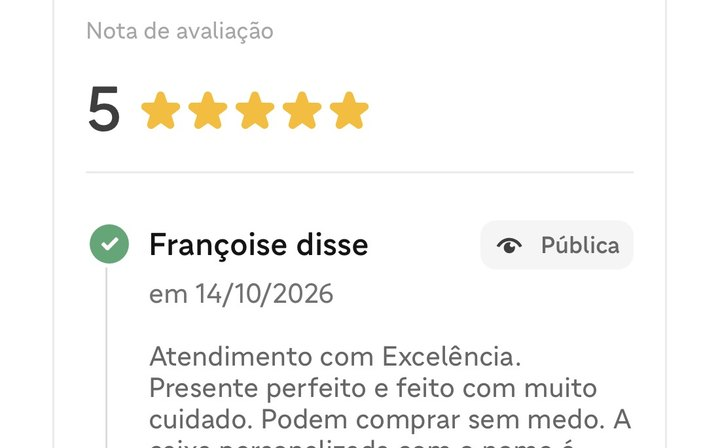
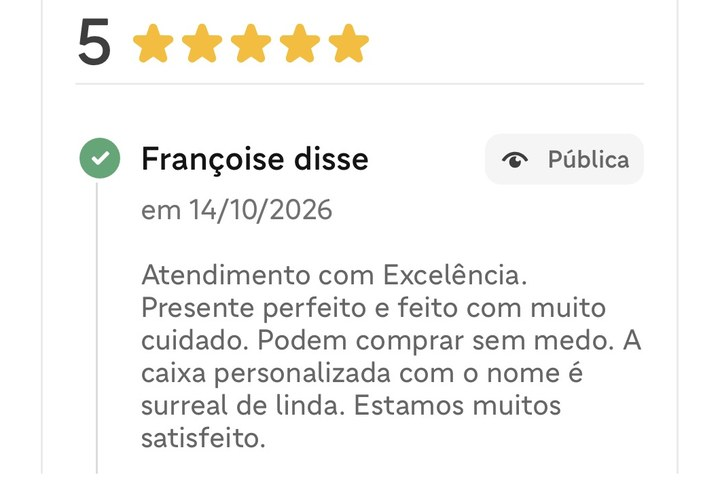
fix: prevent bottom cropping of iFood review text and add Beatriz review print

diff --git a/index.html b/index.html
@@ -1218,7 +1218,7 @@
               <img
                 src="assets/avaliacao-ifood-francoise.jpg"
                 width="720"
-                height="448"
+                height="490"
                 loading="lazy"
                 decoding="async"
                 alt="Avaliação 5 estrelas de Françoise no iFood: Atendimento com Excelência. Presente perfeito e feito com muito cuidado. Podem comprar sem medo. A caixa personalizada com o nome é surreal de linda. Estamos muito satisfeitos."
@@ -1254,7 +1254,7 @@
               <img
                 src="assets/avaliacao-ifood-celia.jpg"
                 width="720"
-                height="494"
+                height="561"
                 loading="lazy"
                 decoding="async"
                 alt="Avaliação 5 estrelas de Celia no iFood: É a segunda vez que faço pedido e não poderia deixar de registrar minha satisfação! Desde o primeiro contato, fui muito bem atendida, além da agilidade e capricho que fizeram toda diferença na minha experiência. Com certeza ganhou uma cliente fiel! Super recomendo."
@@ -1308,7 +1308,7 @@
               <img
                 src="assets/avaliacao-ifood-higor.jpg"
                 width="720"
-                height="317"
+                height="359"
                 loading="lazy"
                 decoding="async"
                 alt="Avaliação 5 estrelas de Higor no iFood: Perfeito! Muito bem preparado, minha noiva amou o presente."
@@ -1326,7 +1326,7 @@
               <img
                 src="assets/avaliacao-ifood-amanda.jpg"
                 width="720"
-                height="400"
+                height="441"
                 loading="lazy"
                 decoding="async"
                 alt="Avaliação 5 estrelas de Amanda no iFood: Atendimento excelente e muita qualidade na preparação da cesta!"
@@ -1344,10 +1344,28 @@
               <img
                 src="assets/avaliacao-ifood-geislane.jpg"
                 width="720"
-                height="386"
+                height="427"
                 loading="lazy"
                 decoding="async"
                 alt="Avaliação 5 estrelas de Geislane no iFood: Atendimento perfeito e muita paciência! Muito simpática e parece amar o que faz, com certeza comprarei mais vezes."
+              />
+              <!-- </a> -->
+            </figure>
+            <figure class="review-card">
+              <span class="review-badge">Avaliação no iFood · 5 ★</span>
+              <!-- <a
+                href="assets/avaliacao-ifood-beatriz.jpg"
+                target="_blank"
+                rel="noopener"
+                aria-label="Ver print da avaliação de Beatriz no iFood"
+              > -->
+              <img
+                src="assets/avaliacao-ifood-beatriz.jpg"
+                width="720"
+                height="368"
+                loading="lazy"
+                decoding="async"
+                alt="Avaliação 5 estrelas de Beatriz no iFood: Adorei o atendimento, super atenciosos e solícitos, recomendo!!!"
               />
               <!-- </a> -->
             </figure>

diff --git a/styles.css b/styles.css
@@ -677,7 +677,7 @@ h2 {
 .review-card img {
   display: block;
   width: 100%;
-  height: 195px;
+  height: 225px;
   object-fit: contain;
 }
 
@@ -1202,7 +1202,7 @@ header .wa-icon {
   }
 
   .review-card img {
-    height: 175px;
+    height: 205px;
   }
 
   .benefits dl {
